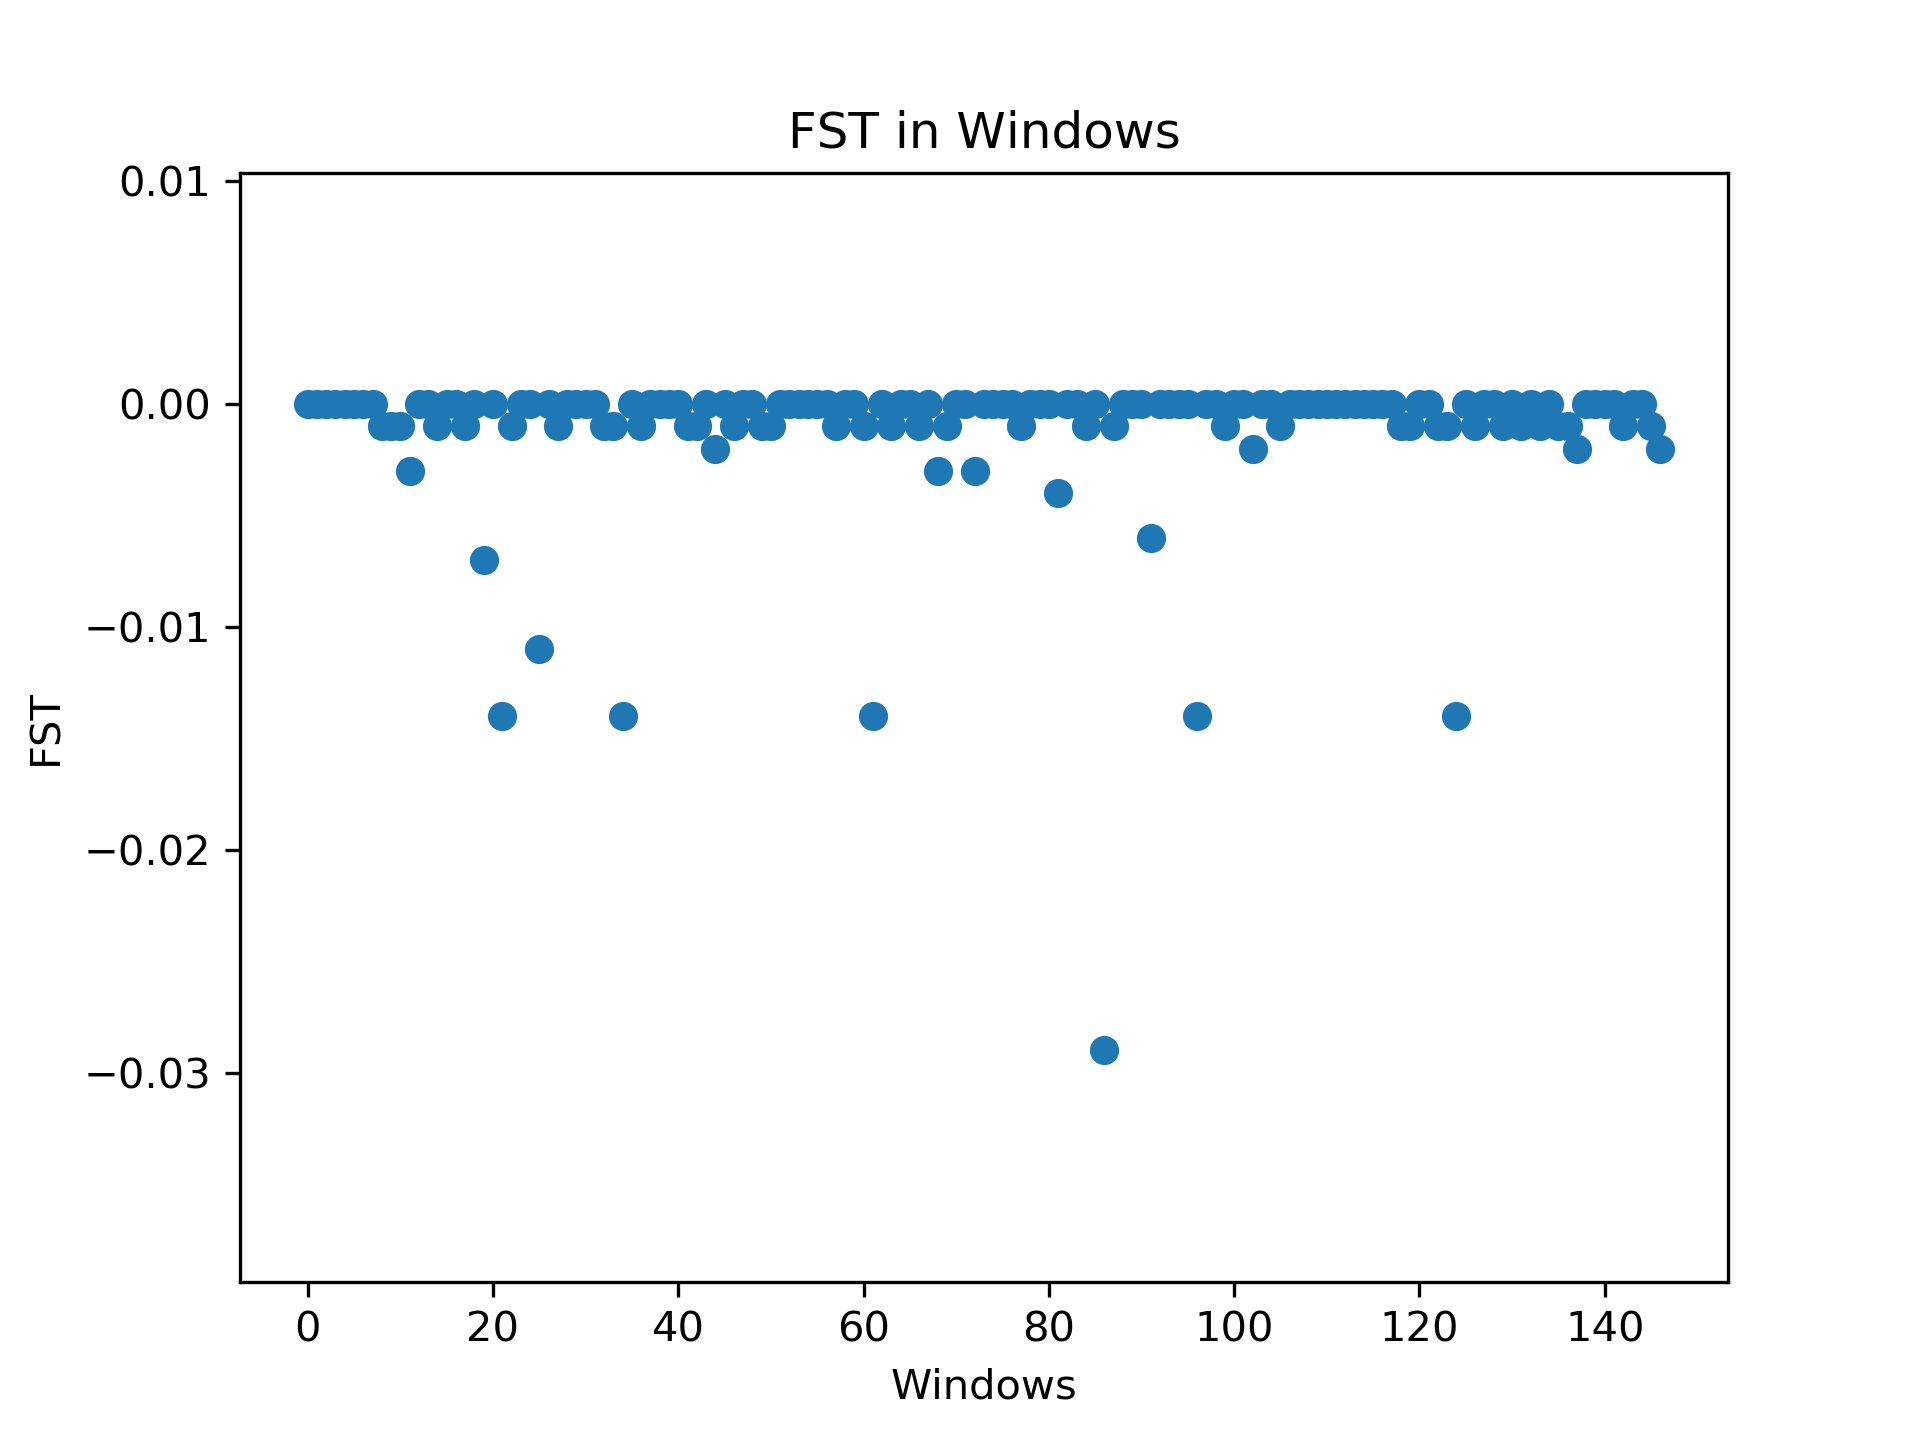
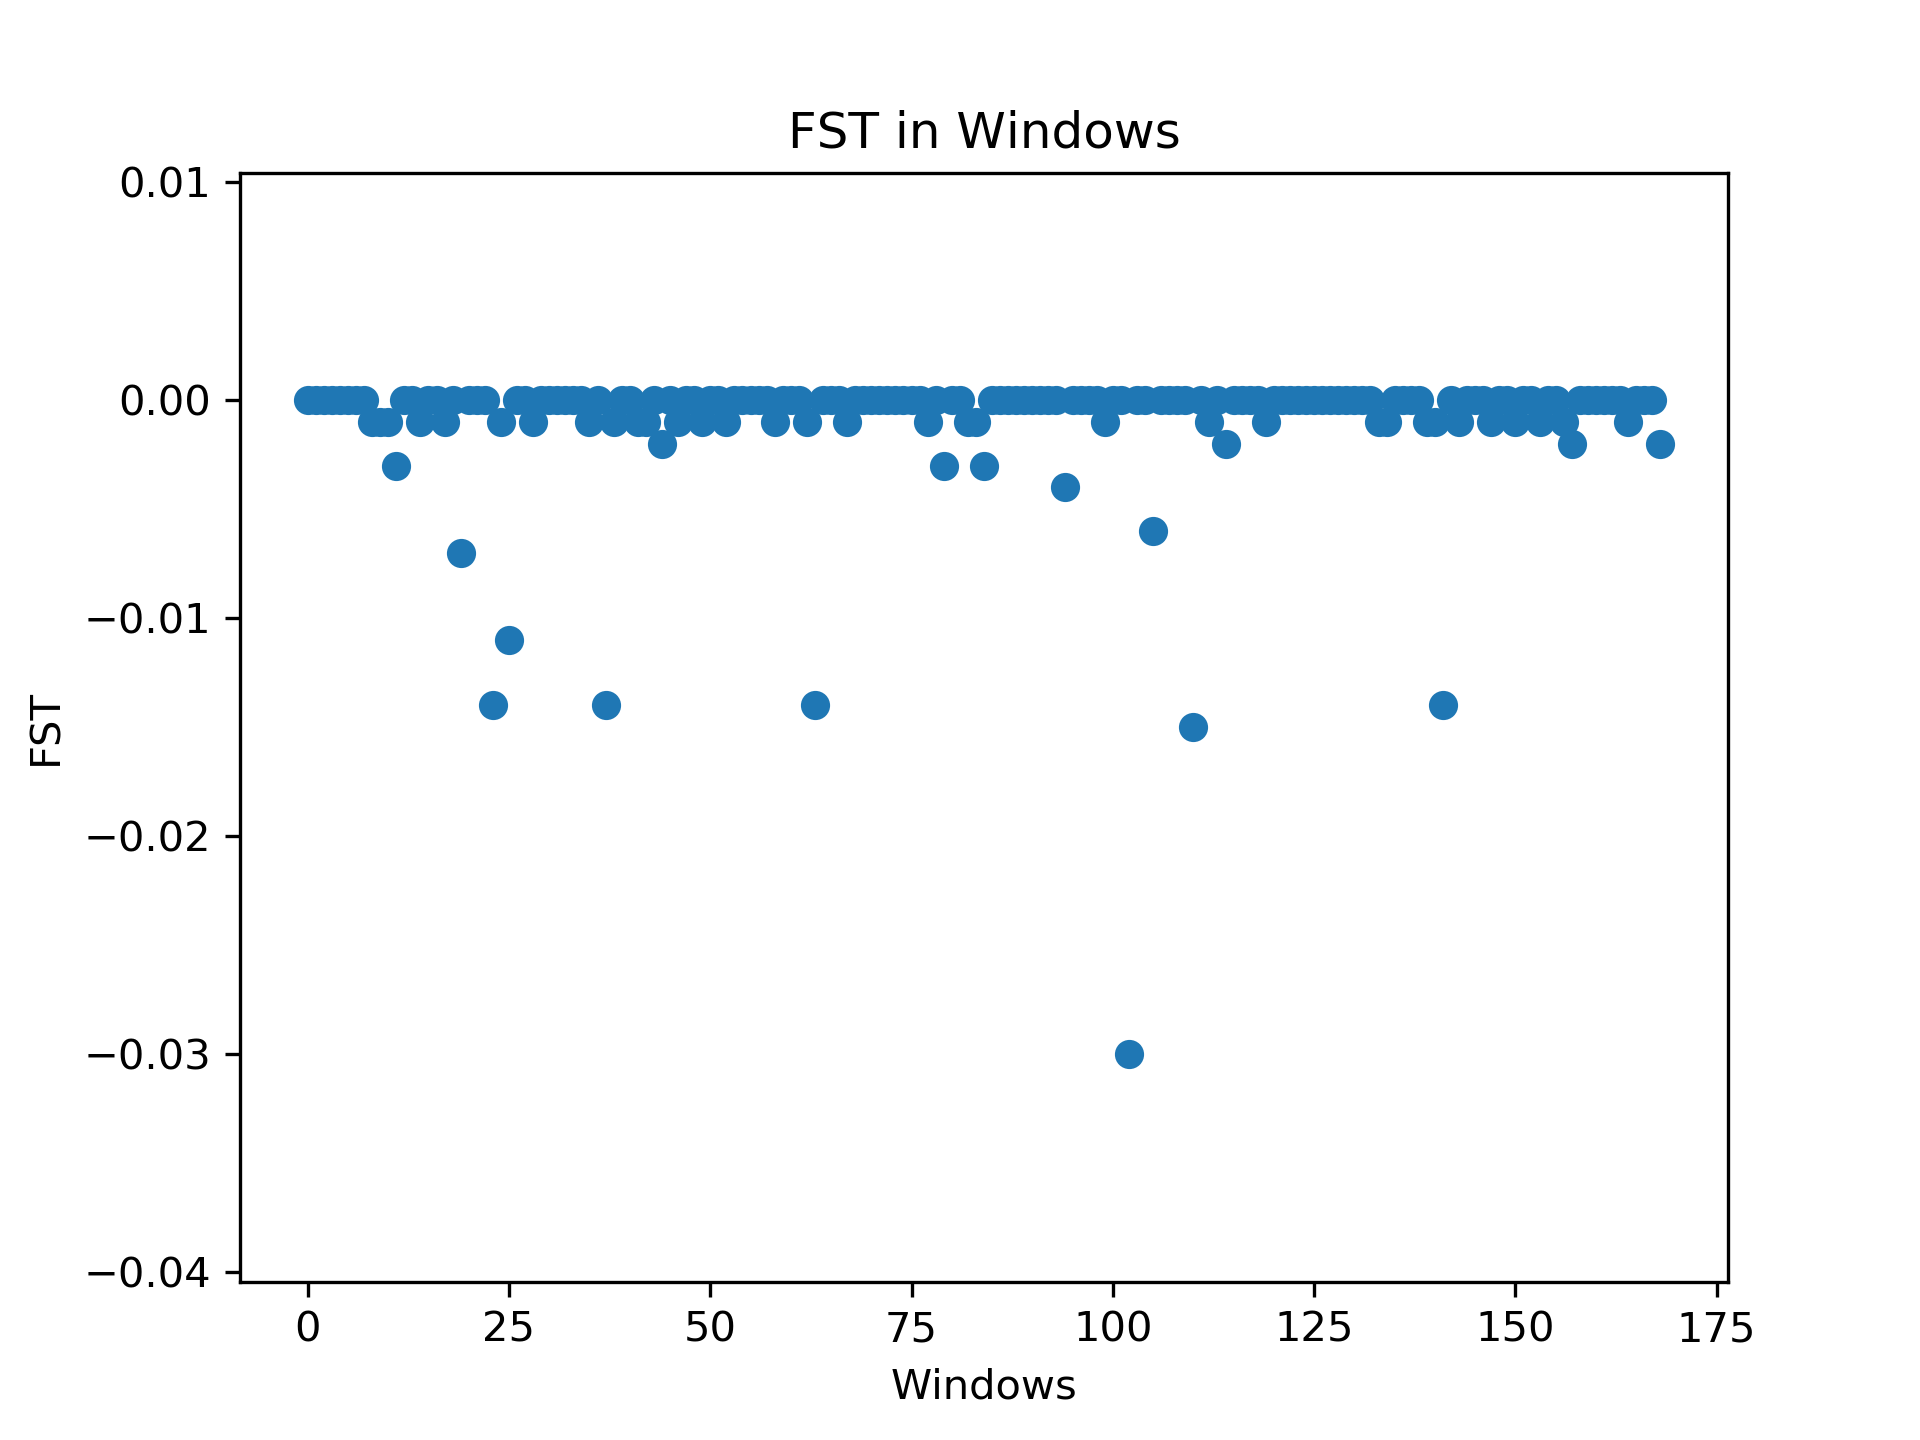
updated FST windows graphs

diff --git a/Group B/Group_A_Data/FSTWindow.py b/Group B/Group_A_Data/FSTWindow.py
@@ -30,6 +30,7 @@ def main():
         filename = tempStr[len(tempStr) - 1]
         print('Avg FST result for ', sys.argv[4+i], ': ', np.round(sumFST/gSize,3))
         print('FST in windows of size ', gSize/numWindows, ': ')
+        print('fst effective length', len(fst[i]))
         windowFST = fstWindows(fst[i], numWindows, gSize)
         print(windowFST)
         print()
@@ -60,7 +61,7 @@ def fstWindows(fst, numWindows, gSize):
 def generateFST(h_s, h_t):
     fst = []
     for key in h_s:
-        if(h_s[key] == 0):
+        if(h_t[key] == 0):
             continue
         fst.append([key, 1-(h_s[key]/h_t[key])])
     fst = sorted(fst, key = lambda m:m[0])
